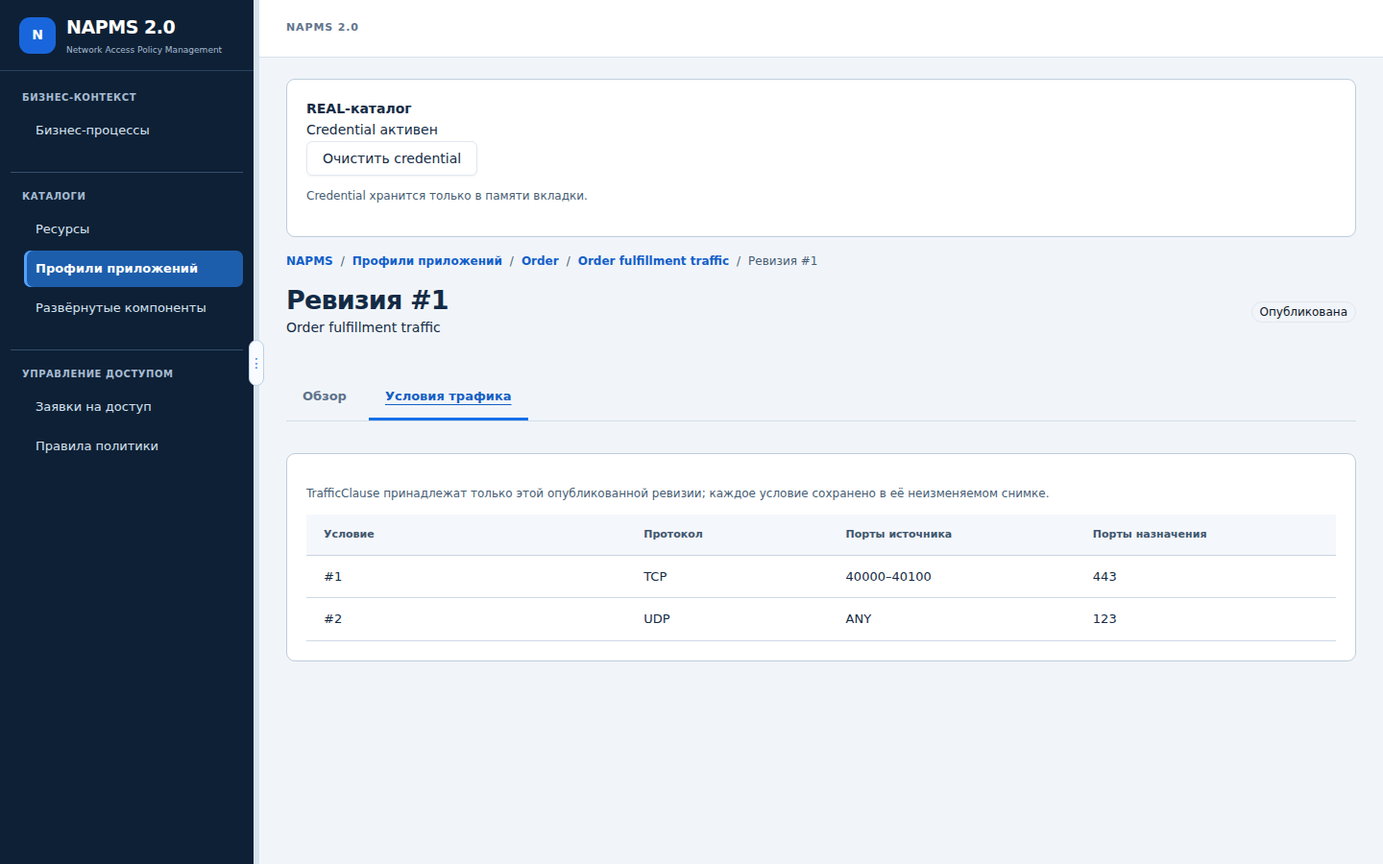
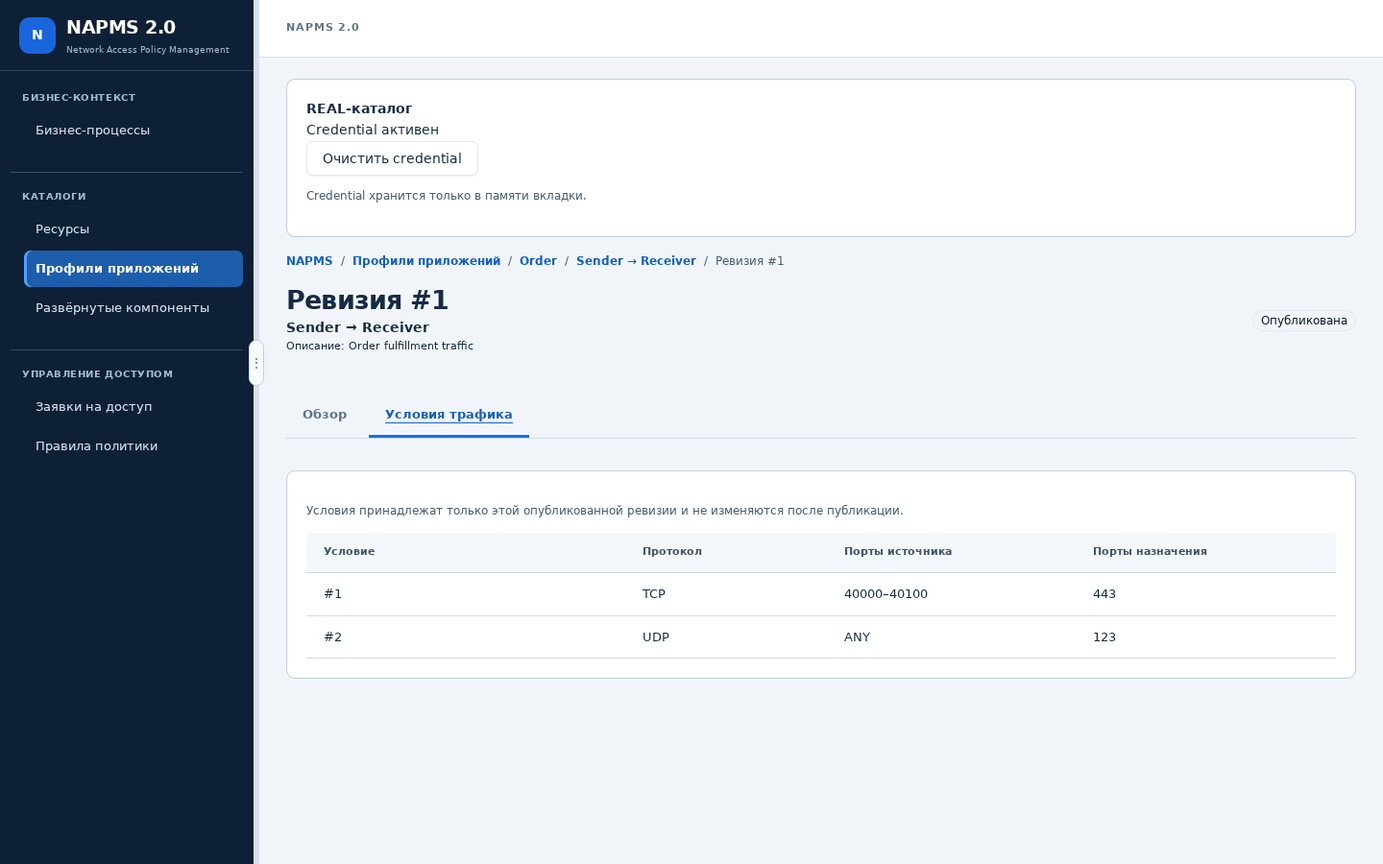
fix: align interaction creation with pair identity

diff --git a/web/src/InteractionScreens.tsx b/web/src/InteractionScreens.tsx
@@ -14,6 +14,8 @@ const revisionPath = (applicationId: string, interactionId: string, revisionId: 
   `${interactionPath(applicationId, interactionId)}/revisions/${revisionId}`
 const newRevisionPath = (applicationId: string, interactionId: string) =>
   `${interactionPath(applicationId, interactionId)}/revisions/new`
+const interactionLabel = (item: Pick<Interaction, 'sourceComponentName' | 'destinationComponentName'>) =>
+  `${item.sourceComponentName} → ${item.destinationComponentName}`
 
 function catalogError(reason: unknown): string {
   if (reason instanceof ApiError) {
@@ -44,7 +46,7 @@ function ClauseEditor({ clauses, setClauses }: {
       <Button type="button" variant="outline" disabled={clauses.length >= 32}
         onClick={() => setClauses(items => [...items, emptyClause()])}>Добавить условие</Button>
     </header>
-    <p className="ux-note">Условия принадлежат создаваемой ревизии. Удаление здесь изменяет только черновик.</p>
+    <p className="ux-note">Удаление условия здесь меняет только черновик.</p>
     {clauses.map((clause, index) => <ClauseFields key={index} item={clause} index={index}
       change={value => change(index, value)} remove={() => remove(index)} />)}
     {!clauses.length && <p role="alert">Добавьте хотя бы одно условие для публикации.</p>}
@@ -150,7 +152,7 @@ export function InteractionCreateScreen({client}: {client: Client}) {
     try {
       const created = await client.createInteraction(applicationId, {
         sourceComponentId: source, destinationComponentId: destination,
-        purpose: purpose.trim(), trafficClauses,
+        purpose: purpose.trim() || undefined, trafficClauses,
       })
       navigate(interactionPath(applicationId, created.interactionId))
     } catch (reason) { setError(catalogError(reason)) }
@@ -162,19 +164,12 @@ export function InteractionCreateScreen({client}: {client: Client}) {
   return <DetailView
     breadcrumbs={<InteractionBreadcrumbs applicationId={applicationId} applicationName={application.name} />}
     title="Создать взаимодействие"
-    subtitle={<>Профиль: <Link to={`/applications/${applicationId}?tab=interactions`}>{application.name}</Link></>}
-    tabs={[{id:'create',label:'Создание',href:`/applications/${applicationId}/interactions/new`}]}
-    activeTab="create">
-    <p>Взаимодействие описывает назначение связи и её участников. Первую ревизию с набором TrafficClause опубликуем одновременно с созданием.</p>
+    subtitle={<>Профиль: <Link to={`/applications/${applicationId}?tab=interactions`}>{application.name}</Link></>}>
+    <p className="ux-note">Одна направленная пара компонентов — одно взаимодействие. Описание можно добавить при необходимости; условия трафика сохраняются вместе с первой ревизией.</p>
     {error && <p role="alert" className="ux-field-error">{error}</p>}
-    <form className="interaction-draft-form" onSubmit={submit}>
+    <form className="interaction-draft-form interaction-create-form" onSubmit={submit}>
       <section className="interaction-identity">
-        <h2>Взаимодействие</h2>
-        <label>Назначение взаимодействия
-          <input aria-label="Назначение взаимодействия" required maxLength={300}
-            value={purpose} placeholder="Например, синхронизация времени"
-            onChange={event => setPurpose(event.target.value)} />
-        </label>
+        <h2>Направление</h2>
         <div className="interaction-participants">
           <label>Источник<select required value={source} onChange={event => setSource(event.target.value)}>
             <option value="">Выберите компонент</option>
@@ -185,15 +180,20 @@ export function InteractionCreateScreen({client}: {client: Client}) {
             {components.map(c => <option key={c.componentId} value={c.componentId}>{c.name}</option>)}
           </select></label>
         </div>
+        <label>Описание взаимодействия (необязательно)
+          <input aria-label="Описание взаимодействия (необязательно)" maxLength={300}
+            value={purpose} placeholder="Например, синхронизация времени"
+            onChange={event => setPurpose(event.target.value)} />
+        </label>
         {samePair && <p role="alert" className="ux-field-error">
           Такая направленная связь уже существует: <Link to={interactionPath(applicationId, samePair.interactionId)}>
-            {samePair.purpose || `Interaction ${samePair.interactionId.slice(0,8)}`}
-          </Link>. Изменяйте условия через новую ревизию.
+            {interactionLabel(samePair)}
+          </Link>{samePair.purpose && <small className="block">Описание: {samePair.purpose}</small>}. Условия можно изменить новой ревизией.
         </p>}
       </section>
       <section className="interaction-new-revision">
-        <h2>Ревизия #1 · черновик</h2>
-        <p className="ux-note">Опубликованная ревизия неизменяема. Её TrafficClause нельзя редактировать или удалять.</p>
+        <h2>Условия первой ревизии</h2>
+        <p className="ux-note">После создания эти условия нельзя редактировать; изменения публикуются новой ревизией.</p>
         <ClauseEditor clauses={clauses} setClauses={setClauses}/>
       </section>
       <div className="interaction-draft-actions">
@@ -213,17 +213,17 @@ export function InteractionDetailScreen({client}: {client: Client}) {
     {error ? <p role="alert">{error}</p> : <p role="status">Загрузка взаимодействия…</p>}
   </section>
   const base = interactionPath(applicationId, interactionId)
+  const label = interactionLabel(item)
   const latest = item.revisions.at(-1)!
   return <DetailView
-    breadcrumbs={<InteractionBreadcrumbs applicationId={applicationId} applicationName={item.applicationName} interactionId={interactionId} name={item.purpose || `${item.sourceComponentName} → ${item.destinationComponentName}`} currentInteraction />}
-    title={item.purpose || `${item.sourceComponentName} → ${item.destinationComponentName}`}
-    subtitle={`${item.sourceComponentName} → ${item.destinationComponentName}`}
+    breadcrumbs={<InteractionBreadcrumbs applicationId={applicationId} applicationName={item.applicationName} interactionId={interactionId} name={label} currentInteraction />}
+    title={label}
     actions={tab === 'revisions' ? <Button asChild><Link to={newRevisionPath(applicationId, interactionId)}>Создать ревизию</Link></Button> : undefined}
     tabs={[{id:'overview',label:'Обзор',href:base}, {id:'revisions',label:'Ревизии',href:`${base}?tab=revisions`}]}
     activeTab={tab}>
     {tab === 'overview' && <>
       <dl className="ux-properties">
-        <div><dt>Назначение</dt><dd>{item.purpose || 'Не указано (историческая запись)'}</dd></div>
+        <div><dt>Описание</dt><dd>{item.purpose || 'Не добавлено'}</dd></div>
         <div><dt>Источник</dt><dd>{item.sourceComponentName}</dd></div>
         <div><dt>Получатель</dt><dd>{item.destinationComponentName}</dd></div>
         <div><dt>Последняя опубликованная ревизия</dt><dd>
@@ -234,7 +234,7 @@ export function InteractionDetailScreen({client}: {client: Client}) {
       <p className="ux-note">Изменения трафика создают новую ревизию. Предыдущие версии и связанные с ними заявки и правила сохраняются.</p>
     </>}
     {tab === 'revisions' && <>
-      <p className="ux-note">Список опубликованных неизменяемых ревизий. Откройте версию для просмотра её TrafficClause.</p>
+      <p className="ux-note">Список опубликованных неизменяемых ревизий. Откройте версию, чтобы посмотреть её условия.</p>
       <EntityTable<InteractionRevision> rows={item.revisions} columns={[
         {key:'number',title:'Ревизия',render:r=><Link to={revisionPath(applicationId, interactionId, r.interactionRevisionId)}>{`#${r.revisionNumber}`}</Link>},
         {key:'count',title:'Условий',render:r=>r.trafficClauses.length},
@@ -257,22 +257,23 @@ export function InteractionRevisionDetailScreen({client}: {client: Client}) {
   if (!revision) return <section className="ux-panel ux-panel-body"><p role="alert">Ревизия не найдена.</p>
     <Link to={revisionsPath(applicationId, interactionId)}>К списку ревизий</Link></section>
   const base = revisionPath(applicationId, interactionId, revisionId)
+  const label = interactionLabel(item)
   return <DetailView
     breadcrumbs={<><InteractionBreadcrumbs applicationId={applicationId} applicationName={item.applicationName}
-      interactionId={interactionId} name={item.purpose || `${item.sourceComponentName} → ${item.destinationComponentName}`}/>
+      interactionId={interactionId} name={label}/>
       <span>/</span><span aria-current="page">Ревизия #{revision.revisionNumber}</span></>}
     title={`Ревизия #${revision.revisionNumber}`}
-    subtitle={item.purpose || `${item.sourceComponentName} → ${item.destinationComponentName}`}
+    subtitle={<><strong>{label}</strong>{item.purpose && <small className="block">Описание: {item.purpose}</small>}</>}
     state="Опубликована"
     tabs={[{id:'overview',label:'Обзор',href:base},
       {id:'clauses',label:'Условия трафика',href:`${base}?tab=clauses`}]}
     activeTab={tab}>
     {tab === 'overview' && <>
       <dl className="ux-properties">
-        <div><dt>Взаимодействие</dt><dd><Link to={interactionPath(applicationId, interactionId)}>{item.purpose || 'Историческое взаимодействие'}</Link></dd></div>
+        <div><dt>Взаимодействие</dt><dd><Link to={interactionPath(applicationId, interactionId)}>{label}</Link>{item.purpose && <small className="block">Описание: {item.purpose}</small>}</dd></div>
         <div><dt>Номер версии</dt><dd>#{revision.revisionNumber}</dd></div>
         <div><dt>Состояние</dt><dd>Опубликована · неизменяема</dd></div>
-        <div><dt>Количество TrafficClause</dt><dd>{revision.trafficClauses.length}</dd></div>
+        <div><dt>Количество условий</dt><dd>{revision.trafficClauses.length}</dd></div>
         <div><dt>Краткое описание трафика</dt><dd>{revision.trafficLabel}</dd></div>
         <div><dt>Revision ID</dt><dd><code>{revision.interactionRevisionId}</code></dd></div>
       </dl>
@@ -280,7 +281,7 @@ export function InteractionRevisionDetailScreen({client}: {client: Client}) {
       <Button asChild variant="outline"><Link to={`${base}?tab=clauses`}>Посмотреть условия трафика</Link></Button>
     </>}
     {tab === 'clauses' && <>
-      <p className="ux-note">TrafficClause принадлежат только этой опубликованной ревизии; каждое условие сохранено в её неизменяемом снимке.</p>
+      <p className="ux-note">Условия принадлежат только этой опубликованной ревизии и не изменяются после публикации.</p>
       <EntityTable rows={revision.trafficClauses} columns={[
         {key:'index',title:'Условие',render:c=>`#${c.clauseIndex}`},
         {key:'protocol',title:'Протокол',render:c=>c.ipProtocol},
@@ -325,15 +326,14 @@ export function InteractionRevisionCreateScreen({client}: {client: Client}) {
   if (!item || !latest || draftKey !== revisionKey) return <section className="ux-panel ux-panel-body">
     {loadError ? <p role="alert">{loadError}</p> : <p role="status">Загрузка черновика ревизии…</p>}
   </section>
+  const label = interactionLabel(item)
   return <DetailView
     breadcrumbs={<><InteractionBreadcrumbs applicationId={applicationId} applicationName={item.applicationName}
-      interactionId={interactionId} name={item.purpose || `${item.sourceComponentName} → ${item.destinationComponentName}`}/>
+      interactionId={interactionId} name={label}/>
       <span>/</span><span aria-current="page">Новая ревизия</span></>}
     title={`Новая ревизия #${latest.revisionNumber + 1}`}
-    subtitle={item.purpose || `${item.sourceComponentName} → ${item.destinationComponentName}`}
-    tabs={[{id:'draft',label:'Черновик ревизии',href:newRevisionPath(applicationId, interactionId)}]}
-    activeTab="draft">
-    <p>Черновик создан из Revision #{latest.revisionNumber}. Изменения не сохраняются до публикации.</p>
+    subtitle={<><strong>{label}</strong>{item.purpose && <small className="block">Описание: {item.purpose}</small>}</>}>
+    <p className="ux-note">Новая ревизия основана на версии #{latest.revisionNumber}. Условия сохраняются после публикации.</p>
     {error && <p role="alert" className="ux-field-error">{error}</p>}
     <form className="interaction-draft-form" onSubmit={submit}>
       <ClauseEditor clauses={clauses} setClauses={setClauses}/>

diff --git a/web/e2e/catalog-journey.spec.ts b/web/e2e/catalog-journey.spec.ts
@@ -92,14 +92,33 @@ test('REAL catalogs create an active policy from a new application profile', asy
   await expect(page.locator('.interaction-draft-form')).toHaveCount(0)
   await page.getByRole('link', { name: 'Создать', exact: true }).click()
   await expect(page).toHaveURL(`/applications/${applicationId}/interactions/new`)
-  await page.getByLabel('Назначение взаимодействия').fill('Unpublished interaction draft')
+  await expect(page.getByRole('navigation', { name: 'Разделы объекта' })).toHaveCount(0)
+  await page.getByLabel('Описание взаимодействия (необязательно)').fill('Unpublished interaction draft')
   await page.getByRole('link', { name: 'Отмена', exact: true }).click()
   const discarded = await (await page.request.get(`/applications/${applicationId}/interactions`, {headers: requester})).json()
   expect(discarded.items).toHaveLength(0)
   await page.getByRole('link', { name: 'Создать', exact: true }).click()
-  await page.getByLabel('Назначение взаимодействия').fill('Order fulfillment traffic')
   await page.getByRole('combobox', { name: 'Источник', exact: true }).selectOption({ label: 'Sender' })
   await page.getByRole('combobox', { name: 'Получатель', exact: true }).selectOption({ label: 'Receiver' })
+  await page.getByLabel('Назначение от 1').fill('500')
+  await page.getByLabel('Назначение до 1').fill('444')
+  await page.getByRole('button', { name: 'Создать', exact: true }).click()
+  await expect(page.getByRole('alert')).toContainText('Укажите корректные диапазоны портов')
+  const invalidAttempt = await (await page.request.get(`/applications/${applicationId}/interactions?limit=100`,
+    {headers: requester})).json()
+  expect(invalidAttempt.items).toHaveLength(0)
+  await page.getByRole('link', { name: 'Отмена', exact: true }).click()
+  await page.getByRole('link', { name: 'Создать', exact: true }).click()
+  const purpose = page.getByLabel('Описание взаимодействия (необязательно)')
+  await expect(purpose).not.toHaveAttribute('required')
+  await purpose.fill('Order fulfillment traffic')
+  await page.getByRole('combobox', { name: 'Источник', exact: true }).selectOption({ label: 'Sender' })
+  await page.getByRole('combobox', { name: 'Получатель', exact: true }).selectOption({ label: 'Receiver' })
+  const sourceSelector = page.getByRole('combobox', { name: 'Источник', exact: true })
+  const destinationSelector = page.getByRole('combobox', { name: 'Получатель', exact: true })
+  await sourceSelector.focus()
+  await page.keyboard.press('Tab')
+  await expect(destinationSelector).toBeFocused()
   await page.getByLabel('Источник от 1').fill('40000')
   await page.getByLabel('Источник до 1').fill('40100')
   await page.getByRole('button', { name: 'Добавить условие', exact: true }).click()
@@ -109,8 +128,9 @@ test('REAL catalogs create an active policy from a new application profile', asy
   for (const [width, height] of [[1920, 1080], [1440, 900]]) {
     await page.setViewportSize({ width, height })
     await page.evaluate(() => document.querySelector('.ux-main')?.scrollTo(0, 0))
+    await page.evaluate(() => { if (document.activeElement instanceof HTMLElement) document.activeElement.blur() })
     const form = page.locator('.interaction-draft-form')
-    await expect(form.getByRole('group', { name: 'TrafficClause #1' })).toBeVisible()
+    await expect(form.getByRole('group', { name: 'Условие #1' })).toBeVisible()
     const sourceBox = await form.getByRole('combobox', { name: 'Источник', exact: true }).boundingBox()
     const destinationBox = await form.getByRole('combobox', { name: 'Получатель', exact: true }).boundingBox()
     expect(sourceBox && destinationBox).toBeTruthy()
@@ -120,14 +140,23 @@ test('REAL catalogs create an active policy from a new application profile', asy
   }
   await page.getByRole('button', { name: 'Создать', exact: true }).click()
   await expect(page).toHaveURL(/\/applications\/[0-9a-f-]{36}\/interactions\/[0-9a-f-]{36}$/)
-  await expect(page.getByRole('heading', { name: 'Order fulfillment traffic', exact: true })).toBeVisible()
-  await expect(page.getByText('Sender → Receiver', { exact: true })).toBeVisible()
+  await expect(page.getByRole('heading', { name: 'Sender → Receiver', exact: true })).toBeVisible()
+  await expect(page.getByText('Order fulfillment traffic', { exact: true })).toBeVisible()
   const interactionUrl = page.url()
   const interactionId = interactionUrl.split('/').pop()!
   const interactionSnapshot = await (await page.request.get(`/applications/${applicationId}/interactions/${interactionId}`,
     {headers: requester})).json()
+  expect(interactionSnapshot.purpose).toBe('Order fulfillment traffic')
   const revisionId = interactionSnapshot.revisions[0].interactionRevisionId as string
   expect(revisionId).toBeTruthy()
+  await page.getByRole('navigation', { name: 'Breadcrumbs' }).getByRole('link', { name: 'Order', exact: true }).click()
+  await expect(page.getByRole('link', { name: /Sender → Receiver/ })).toBeVisible()
+  await expect(page.getByText('Описание: Order fulfillment traffic', { exact: true })).toBeVisible()
+  await page.setViewportSize({ width: 1920, height: 1080 })
+  await page.screenshot({ path: join(evidence, 'interaction-list-1920.png'), fullPage: true })
+  await page.getByRole('link', { name: /Sender → Receiver/ }).click()
+  await expect(page).toHaveURL(interactionUrl)
+  await page.screenshot({ path: join(evidence, 'interaction-detail-1920.png'), fullPage: true })
   await page.getByRole('link', { name: 'Ревизии', exact: true }).click()
   await expect(page.getByRole('table')).toContainText('#1')
   for (const [width, height] of [[1920, 1080], [1440, 900]]) {
@@ -140,7 +169,7 @@ test('REAL catalogs create an active policy from a new application profile', asy
   await expect(page.getByRole('heading', { name: 'Ревизия #1', exact: true })).toBeVisible()
   const breadcrumbs = page.getByRole('navigation', { name: 'Breadcrumbs' })
   await expect(breadcrumbs.getByRole('link', { name: 'Order', exact: true })).toHaveAttribute('href', `/applications/${applicationId}?tab=interactions`)
-  await expect(breadcrumbs.getByRole('link', { name: 'Order fulfillment traffic', exact: true })).toBeVisible()
+  await expect(breadcrumbs.getByRole('link', { name: 'Sender → Receiver', exact: true })).toBeVisible()
   await page.getByRole('link', { name: 'Условия трафика', exact: true }).click()
   await expect(page.getByRole('table')).toContainText('40000–40100')
   await expect(page.getByRole('table')).toContainText('443')
@@ -289,7 +318,7 @@ test('REAL catalogs create an active policy from a new application profile', asy
   await expect(page.getByRole('heading', { name: 'Новая ревизия #2' })).toBeVisible()
   await page.getByRole('button', { name: 'Добавить условие', exact: true }).click()
   await page.getByRole('button', { name: 'Удалить условие 3' }).click()
-  await expect(page.getByRole('group', { name: 'TrafficClause #3' })).toHaveCount(0)
+  await expect(page.getByRole('group', { name: 'Условие #3' })).toHaveCount(0)
   await page.getByLabel('Назначение от 1').fill('444')
   await page.getByLabel('Назначение до 1').fill('444')
   await page.getByRole('link', { name: 'Отмена', exact: true }).click()
@@ -298,7 +327,7 @@ test('REAL catalogs create an active policy from a new application profile', asy
   await page.getByRole('link', { name: 'Создать ревизию', exact: true }).click()
   await page.getByLabel('Назначение от 1').fill('444')
   await page.getByLabel('Назначение до 1').fill('444')
-  await expect(page.getByRole('group', { name: 'TrafficClause #2' })).toBeVisible()
+  await expect(page.getByRole('group', { name: 'Условие #2' })).toBeVisible()
   for (const [width, height] of [[1920, 1080], [1440, 900]]) {
     await page.setViewportSize({ width, height })
     await page.evaluate(() => document.querySelector('.ux-main')?.scrollTo(0, 0))
@@ -341,12 +370,12 @@ test('REAL catalogs create an active policy from a new application profile', asy
   // back to the existing Interaction instead of allowing a duplicate.
   await page.goto(`/applications/${applicationId}/interactions/new`)
   await login(page, credentials.requester.token)
-  await page.getByLabel('Назначение взаимодействия').fill('Different traffic, same direction')
+  await page.getByLabel('Описание взаимодействия (необязательно)').fill('Different traffic, same direction')
   await page.getByRole('combobox', { name: 'Источник', exact: true }).selectOption({ label: 'Sender' })
   await page.getByRole('combobox', { name: 'Получатель', exact: true }).selectOption({ label: 'Receiver' })
   await expect(page.getByRole('alert')).toContainText('направленная связь уже существует')
   await expect(page.getByRole('button', { name: 'Создать', exact: true })).toBeDisabled()
-  await page.getByRole('alert').getByRole('link', { name: 'Order fulfillment traffic' }).click()
+  await page.getByRole('alert').getByRole('link', { name: 'Sender → Receiver' }).click()
   await expect(page).toHaveURL(interactionUrl)
   // Query all records: the original pair may fall off the default 20-item page.
   const afterAttempt = await (await page.request.get(`/applications/${applicationId}/interactions?limit=100`,
@@ -355,4 +384,19 @@ test('REAL catalogs create an active policy from a new application profile', asy
     item.sourceComponentId === senderComponentId && item.destinationComponentId === receiverComponentId)
   expect(sameDirectedPair).toHaveLength(1)
   expect(sameDirectedPair[0].interactionId).toBe(interactionId)
+
+  // An empty optional description still creates a self-interaction identified by direction.
+  await page.goto(`/applications/${applicationId}/interactions/new`)
+  await login(page, credentials.requester.token)
+  await expect(page.getByRole('navigation', { name: 'Разделы объекта' })).toHaveCount(0)
+  await page.getByRole('combobox', { name: 'Источник', exact: true }).selectOption({ label: 'Sender' })
+  await page.getByRole('combobox', { name: 'Получатель', exact: true }).selectOption({ label: 'Sender' })
+  await page.getByRole('button', { name: 'Создать', exact: true }).click()
+  await expect(page.getByRole('heading', { name: 'Sender → Sender', exact: true })).toBeVisible()
+  await expect(page.getByText('Не добавлено', { exact: true })).toBeVisible()
+  const selfInteractionId = page.url().split('/').pop()!
+  const selfInteraction = await (await page.request.get(
+    `/applications/${applicationId}/interactions/${selfInteractionId}`, {headers: requester})).json()
+  expect(selfInteraction.purpose).toBe('')
+  expect(selfInteraction.sourceComponentId).toBe(selfInteraction.destinationComponentId)
 })

diff --git a/web/src/baseline.css b/web/src/baseline.css
@@ -93,12 +93,15 @@ section[aria-label="Потребности REAL"] td { overflow-wrap: anywhere; 
 
 /* ACC: collection/detail navigation and transient revision editors. */
 .interaction-draft-form{display:grid;gap:22px;max-width:100%}
-.interaction-identity,.interaction-new-revision,.interaction-draft-clauses{display:grid;gap:12px;min-width:0}
+.interaction-create-form{grid-template-columns:minmax(0,.9fr) minmax(0,1.1fr);gap:18px 24px}
+.interaction-identity,.interaction-new-revision,.interaction-draft-clauses{display:grid;align-content:start;gap:12px;min-width:0}
 .interaction-draft-clauses h2,.interaction-new-revision h2,.interaction-identity h2{margin:0}
 .interaction-identity>label{display:grid;gap:6px;max-width:720px}
-.interaction-identity input,.interaction-identity select{height:38px;min-width:0}
-.interaction-participants{display:grid;grid-template-columns:repeat(2,minmax(220px,380px));gap:12px}
+.interaction-identity input,.interaction-identity select{width:100%;height:38px;min-width:0;border:1px solid #cbd5e1;border-radius:6px;padding:8px 10px;background:white;color:#142b45}
+.interaction-participants{display:grid;grid-template-columns:repeat(2,minmax(0,1fr));gap:12px}
 .interaction-participants label{display:grid;gap:6px}
 .interaction-draft-actions{display:flex;flex-wrap:wrap;gap:12px;align-items:center;padding-top:8px}
+.interaction-create-form .interaction-draft-actions{grid-column:1/-1;padding-top:14px;border-top:1px solid #e1e7ef}
 .interaction-draft-clauses>.ux-note{margin:0}
+@media(max-width:1100px){.interaction-create-form{grid-template-columns:minmax(0,1fr)}.interaction-create-form .interaction-draft-actions{grid-column:auto}}
 @media(max-width:850px){.interaction-participants{grid-template-columns:minmax(0,1fr)}}

diff --git a/web/src/Catalogs.tsx b/web/src/Catalogs.tsx
@@ -175,8 +175,10 @@ function InteractionsTab({ client, application, reloadKey }: {
     </div>
     <ErrorNotice text={error}/>
     <EntityTable<Interaction> rows={page?.items ?? []} columns={[
-      {key:'purpose', title:'Назначение', render:item=><Link to={`/applications/${application.applicationId}/interactions/${item.interactionId}`}>{item.purpose || `Историческая связь · ${item.interactionId.slice(0,8)}`}</Link>},
-      {key:'direction', title:'Направление', render:item=>`${item.sourceComponentName} → ${item.destinationComponentName}`},
+      {key:'interaction', title:'Взаимодействие', render:item=><Link className="block" to={`/applications/${application.applicationId}/interactions/${item.interactionId}`}>
+        {item.sourceComponentName} → {item.destinationComponentName}
+        {item.purpose && <small className="block">Описание: {item.purpose}</small>}
+      </Link>},
       {key:'latest', title:'Последняя ревизия', render:item=>{
         const latest = item.revisions.at(-1)!
         return <><Link to={`/applications/${application.applicationId}/interactions/${item.interactionId}/revisions/${latest.interactionRevisionId}`}>{`#${latest.revisionNumber}`}</Link><small className="block max-w-64 truncate" title={latest.trafficLabel}>{latest.trafficLabel}</small></>

diff --git a/web/src/components/real/DetailView.tsx b/web/src/components/real/DetailView.tsx
@@ -9,16 +9,16 @@ type DetailViewProps = {
   subtitle?: ReactNode
   state?: string
   actions?: ReactNode
-  tabs: DetailTab[]
-  activeTab: string
+  tabs?: DetailTab[]
+  activeTab?: string
   children: ReactNode
 }
 
-export function DetailView({ breadcrumbs, title, subtitle, state, actions, tabs, activeTab, children }: DetailViewProps) {
+export function DetailView({ breadcrumbs, title, subtitle, state, actions, tabs = [], activeTab, children }: DetailViewProps) {
   return <>
     <nav className="ux-breadcrumbs" aria-label="Breadcrumbs">{breadcrumbs}</nav>
     <header className="ux-heading"><div className="flex flex-wrap items-center justify-between gap-3"><div><h1>{title}</h1>{subtitle && <p>{subtitle}</p>}</div><div className="flex flex-wrap items-center gap-2">{state && <Badge variant="outline">{state}</Badge>}{actions}</div></div></header>
-    <nav className="ux-tabs" aria-label="Разделы объекта">{tabs.map(tab => <Link key={tab.id} to={tab.href} aria-current={activeTab === tab.id ? 'page' : undefined}>{tab.label}</Link>)}</nav>
+    {tabs.length > 0 && <nav className="ux-tabs" aria-label="Разделы объекта">{tabs.map(tab => <Link key={tab.id} to={tab.href} aria-current={activeTab === tab.id ? 'page' : undefined}>{tab.label}</Link>)}</nav>}
     <section className="ux-panel ux-panel-body">{children}</section>
   </>
 }

diff --git a/web/src/TrafficClauseDraft.tsx b/web/src/TrafficClauseDraft.tsx
@@ -51,7 +51,7 @@ export function ClauseFields({ item, index, change, remove }: {
 }) {
   const key = index + 1
   return <fieldset className="interaction-clause-draft">
-    <legend>TrafficClause #{key}</legend>
+    <legend>Условие #{key}</legend>
     <label>Протокол<select aria-label={`Протокол условия ${key}`} value={item.ipProtocol}
       onChange={event => change({ ...item, ipProtocol: event.target.value as 'TCP' | 'UDP' })}>
       <option value="TCP">TCP</option><option value="UDP">UDP</option>

diff --git a/tests/test_interaction_revisions.py b/tests/test_interaction_revisions.py
@@ -161,6 +161,31 @@ def test_same_purpose_requires_new_revision_and_legacy_exact_duplicates_blocked(
                  "UDP", 9998, 9998))
 
 
+def test_purpose_is_optional_and_does_not_distinguish_self_interactions(env):
+    _, _, _, client, _ = env
+    requester = auth(env, "requester")
+    base = f'/applications/{IDS["application"]}/interactions'
+    created = client.post(base, headers=requester, json={
+        "sourceComponentId": IDS["sender"],
+        "destinationComponentId": IDS["sender"],
+        "trafficClauses": [clause("TCP", destination=443)],
+    })
+    assert created.status_code == 201, created.text
+    interaction = created.json()
+    assert interaction["purpose"] == ""
+    assert interaction["sourceComponentId"] == interaction["destinationComponentId"]
+    assert interaction["revisions"][0]["revisionNumber"] == 1
+
+    duplicate = client.post(base, headers=requester, json={
+        "sourceComponentId": IDS["sender"],
+        "destinationComponentId": IDS["sender"],
+        "purpose": "A different description",
+        "trafficClauses": [clause("UDP", destination=5353)],
+    })
+    assert duplicate.status_code == 409
+    assert duplicate.json()["error"]["code"] == "INTERACTION_PAIR_EXISTS"
+
+
 def test_overlapping_clauses_are_rejected(env):
     _, _, _, client, _ = env
     requester = auth(env, "requester")
